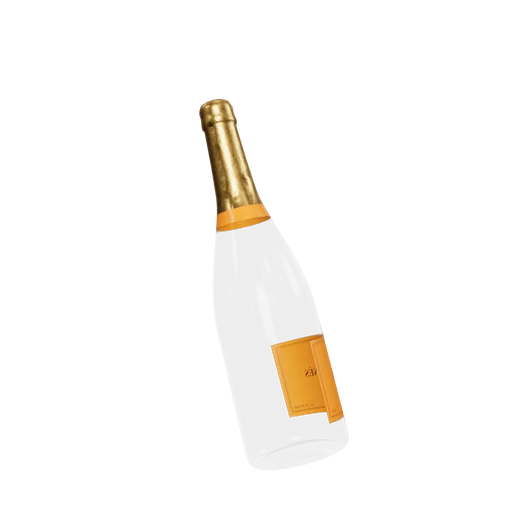
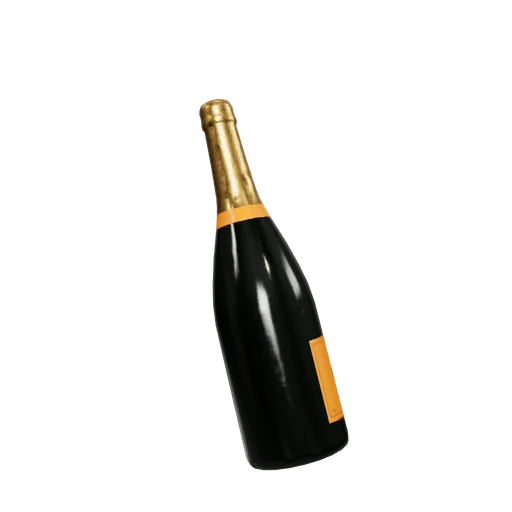
P5 follow-ups: NBSP separators, snow-globe framing, opaque champagne glass, visible particles
- live-card separators (NBSP around the middle dot) in the fixture and templates; parity spec
  now feeds the fixture directly (still 0.000 %)
- snow globe: fit 1.35 / yOffset 0.07 so the 3D hint clears the base (seed + template + preview)
- asset pipeline: validated 'opaqueMaterials' option; champagne-bottle glass is opaque
- generator rule: particle colours >= 1.25:1 on both preset backgrounds (rose exempt: live card)
- billets without title lines still get a (visually hidden) h1
- docs: FitText, hint/label design decisions, CLAUDE.md §11 wording

Changed region(s): [[0.4062, 0.4062, 0.6875, 0.9375]]

diff --git a/billet-studio-frontend/src/app/core/theme/billet-theme-presets.generated.ts b/billet-studio-frontend/src/app/core/theme/billet-theme-presets.generated.ts
@@ -106,7 +106,7 @@ export const BILLET_THEME_PRESETS: Readonly<Record<ThemeId, BilletThemePreset>> 
       ui: { fontId: 'dm-sans', weight: 400, italic: false, size: 1 },
       emphasis: 'accent',
     },
-    particleColors: ['#a3b89a', '#c3d4b5', '#7a9a7e', '#dbe6cf', '#5e8566', '#b8cfa8'],
+    particleColors: ['#a3b89a', '#c3d4b5', '#7a9a7e', '#cddcbf', '#5e8566', '#b8cfa8'],
   },
   midnight: {
     palette: {
@@ -138,7 +138,7 @@ export const BILLET_THEME_PRESETS: Readonly<Record<ThemeId, BilletThemePreset>> 
       ui: { fontId: 'raleway', weight: 500, italic: false, size: 1 },
       emphasis: 'accent',
     },
-    particleColors: ['#e3c170', '#f3dc9b', '#c7a24e', '#d7dcef', '#aab2d6', '#f5f6fc'],
+    particleColors: ['#e3c170', '#ebd493', '#c7a24e', '#cdd3ea', '#aab2d6', '#c2d5f0'],
   },
   paper: {
     palette: {
@@ -170,7 +170,7 @@ export const BILLET_THEME_PRESETS: Readonly<Record<ThemeId, BilletThemePreset>> 
       ui: { fontId: 'work-sans', weight: 400, italic: false, size: 1 },
       emphasis: 'inkSoft',
     },
-    particleColors: ['#d8cbb3', '#c2b192', '#8a3a2a', '#3a342c', '#e9dfcb', '#a8977a'],
+    particleColors: ['#d8cbb3', '#c2b192', '#8a3a2a', '#5a5248', '#d4b8a0', '#a8977a'],
   },
   lavender: {
     palette: {
@@ -202,7 +202,7 @@ export const BILLET_THEME_PRESETS: Readonly<Record<ThemeId, BilletThemePreset>> 
       ui: { fontId: 'quicksand', weight: 500, italic: false, size: 1 },
       emphasis: 'accent',
     },
-    particleColors: ['#c9b6f2', '#b39ae8', '#e2d7fa', '#9a7ddb', '#f0eafc', '#d4c4f5'],
+    particleColors: ['#c9b6f2', '#b39ae8', '#e2d7fa', '#9a7ddb', '#e0c9f0', '#d4c4f5'],
   },
   ocean: {
     palette: {
@@ -234,7 +234,7 @@ export const BILLET_THEME_PRESETS: Readonly<Record<ThemeId, BilletThemePreset>> 
       ui: { fontId: 'montserrat', weight: 500, italic: false, size: 1 },
       emphasis: 'accent',
     },
-    particleColors: ['#5cc4e6', '#9adcee', '#2f9fc4', '#7ad9c9', '#d2f1f7', '#11709a'],
+    particleColors: ['#5cc4e6', '#9adcee', '#2f9fc4', '#7ad9c9', '#b3dfe6', '#11709a'],
   },
   terracotta: {
     palette: {
@@ -330,7 +330,7 @@ export const BILLET_THEME_PRESETS: Readonly<Record<ThemeId, BilletThemePreset>> 
       ui: { fontId: 'nunito', weight: 800, italic: false, size: 1 },
       emphasis: 'accent',
     },
-    particleColors: ['#5fd6b3', '#9be7cf', '#2fb38f', '#c8f4e5', '#7fdcc4', '#0f7d63'],
+    particleColors: ['#5fd6b3', '#9be7cf', '#2fb38f', '#abe4cf', '#7fdcc4', '#0f7d63'],
   },
   peach: {
     palette: {
@@ -362,7 +362,7 @@ export const BILLET_THEME_PRESETS: Readonly<Record<ThemeId, BilletThemePreset>> 
       ui: { fontId: 'outfit', weight: 600, italic: false, size: 1 },
       emphasis: 'accent',
     },
-    particleColors: ['#ffb38a', '#ffc9a8', '#ff9a6b', '#f7d9c4', '#ffd6a5', '#e8764a'],
+    particleColors: ['#ffb38a', '#ffc9a8', '#ff9a6b', '#f5d0b8', '#ffd6a5', '#e8764a'],
   },
   aurora: {
     palette: {
@@ -426,7 +426,7 @@ export const BILLET_THEME_PRESETS: Readonly<Record<ThemeId, BilletThemePreset>> 
       ui: { fontId: 'oswald', weight: 400, italic: false, size: 1 },
       emphasis: 'accent',
     },
-    particleColors: ['#6f4a33', '#a57a55', '#d4a57a', '#c89b6d', '#3b2518', '#e8cfb2'],
+    particleColors: ['#6f4a33', '#a57a55', '#d4a57a', '#c89b6d', '#634231', '#e8cfb2'],
   },
   sakura: {
     palette: {
@@ -458,7 +458,7 @@ export const BILLET_THEME_PRESETS: Readonly<Record<ThemeId, BilletThemePreset>> 
       ui: { fontId: 'poppins', weight: 400, italic: false, size: 0.95 },
       emphasis: 'accent',
     },
-    particleColors: ['#f7c1d3', '#f4a7c0', '#fcdce7', '#e98aa9', '#fff0f5', '#d8668c'],
+    particleColors: ['#f7c1d3', '#f4a7c0', '#f9d0de', '#e98aa9', '#eec6de', '#d8668c'],
   },
   forest: {
     palette: {
@@ -522,7 +522,7 @@ export const BILLET_THEME_PRESETS: Readonly<Record<ThemeId, BilletThemePreset>> 
       ui: { fontId: 'raleway', weight: 600, italic: false, size: 1 },
       emphasis: 'inkSoft',
     },
-    particleColors: ['#d8b98a', '#e2b56d', '#c7a77a', '#b98a4a', '#f0dcb8', '#97661f'],
+    particleColors: ['#d8b98a', '#e2b56d', '#c7a77a', '#b98a4a', '#e8d0a6', '#97661f'],
   },
   neon: {
     palette: {
@@ -554,7 +554,7 @@ export const BILLET_THEME_PRESETS: Readonly<Record<ThemeId, BilletThemePreset>> 
       ui: { fontId: 'space-grotesk', weight: 600, italic: false, size: 1 },
       emphasis: 'accent',
     },
-    particleColors: ['#ff4fd8', '#22e3ff', '#b36bff', '#ffe066', '#ff8ae6', '#7af3ff'],
+    particleColors: ['#ff4fd8', '#22e3ff', '#b36bff', '#ffd84d', '#ff8ae6', '#5eeeff'],
   },
 };
 

diff --git a/billet-studio-frontend/e2e/parity.spec.ts b/billet-studio-frontend/e2e/parity.spec.ts
@@ -26,19 +26,6 @@ const PIXEL_THRESHOLD = 0.1;
 const MAX_MISMATCH_RATIO = 0.01;
 const MASK_COLOR = '#ff00ff';
 
-/**
- * The live card sets its '·' separators as ' &nbsp;·&nbsp; ' (a space and a no-break space on each
- * side), the fixture as ' · '. The test types them like the card, so it measures the renderer, not
- * the wording: with the fixture's text the label and the hint are 8.8 px narrower.
- */
-const NBSP = String.fromCharCode(0xa0);
-const liveSeparator = (text: string) => text.replace(' · ', ` ${NBSP}·${NBSP} `);
-const LIVE_CARD_DOCUMENT = {
-  ...PARITY_DOCUMENT,
-  hero: { ...PARITY_DOCUMENT.hero, label: liveSeparator(PARITY_DOCUMENT.hero['label']) },
-  scene: { ...PARITY_DOCUMENT.scene, hint: liveSeparator(PARITY_DOCUMENT.scene.hint) },
-};
-
 /** The live card's reveal is finished at once; the petals and the credit line are not the card. */
 const ORIGINAL_CSS = `
   .hero-label, .hero-title, .hero-sub, .botanical, .divider, .section, .fun-card, .soundbar-note,
@@ -292,7 +279,7 @@ for (const viewport of VIEWPORTS) {
         await original.goto(ORIGINAL_URL, { waitUntil: 'networkidle' });
         expect(await settle(original, ORIGINAL_CSS)).toEqual(expect.arrayContaining(CARD_FACES));
 
-        await mockBilletApi(page, { 'parity-token': publicBillet(LIVE_CARD_DOCUMENT) });
+        await mockBilletApi(page, { 'parity-token': publicBillet(PARITY_DOCUMENT) });
         await page.goto(OURS_URL);
         await expect(page.locator('app-billet-view .signature-sub')).toBeVisible();
         await page.waitForLoadState('networkidle');

diff --git a/billet-studio-frontend/src/app/billet/templates/valentinstag.ts b/billet-studio-frontend/src/app/billet/templates/valentinstag.ts
@@ -1,4 +1,4 @@
-import { defineTemplate } from './template';
+import { defineTemplate, SEPARATOR } from './template';
 
 export const VALENTINSTAG = defineTemplate({
   nameKey: 'TEMPLATES.VALENTINSTAG',
@@ -12,7 +12,7 @@ export const VALENTINSTAG = defineTemplate({
       title: 'Valentinstag',
       pageTitle: 'Für dich · Valentinstag',
       hero: {
-        label: '14. Februar · Valentinstag',
+        label: `14. Februar${SEPARATOR}Valentinstag`,
         titleLine1: 'Für dich,',
         titleLine2: 'mein Herz',
         sub: 'weil jeder Tag mit dir zählt',
@@ -44,7 +44,7 @@ export const VALENTINSTAG = defineTemplate({
       title: "Valentine's Day",
       pageTitle: "For you · Valentine's Day",
       hero: {
-        label: "February 14 · Valentine's Day",
+        label: `February 14${SEPARATOR}Valentine's Day`,
         titleLine1: 'For you,',
         titleLine2: 'my love',
         sub: 'because every day with you counts',

diff --git a/billet-studio-frontend/src/app/billet/templates/template.ts b/billet-studio-frontend/src/app/billet/templates/template.ts
@@ -62,8 +62,8 @@ const SEED_DEFAULTS = {
     autoRotateSpeed: 0.45,
   },
   'snow-globe': {
-    fitSize: 1.45,
-    yOffset: 0,
+    fitSize: 1.35,
+    yOffset: 0.07,
     exposure: 0.6,
     cameraDistance: 2.8,
     cameraHeight: 0.1,
@@ -98,9 +98,12 @@ const SCENE_ARIA_LABEL: Record<SceneModelSlug, Record<BilletLang, string>> = {
   },
 };
 
+/** The live card's separator (' &nbsp;·&nbsp; '): a space and a no-break space on each side. */
+export const SEPARATOR = ' \u00a0·\u00a0 ';
+
 const SCENE_HINT: Record<BilletLang, string> = {
-  de: 'wischen zum drehen · pinch zum zoomen',
-  en: 'swipe to rotate · pinch to zoom',
+  de: `wischen zum drehen${SEPARATOR}pinch zum zoomen`,
+  en: `swipe to rotate${SEPARATOR}pinch to zoom`,
 };
 
 /** The original card's scene (height 23.75rem, auto-rotating) around one of the seeded models. */

diff --git a/billet-studio-frontend/src/app/features/dev/billet-preview/parity-document.generated.ts b/billet-studio-frontend/src/app/features/dev/billet-preview/parity-document.generated.ts
@@ -78,7 +78,7 @@ export const PARITY_DOCUMENT: unknown = {
     pageBottom: 15,
   },
   hero: {
-    label: '10. Mai 2026 · Muttertag',
+    label: '10. Mai 2026  ·  Muttertag',
     titleLine1: 'Für',
     titleLine2: 'Mama',
     sub: 'von Andreas',
@@ -94,7 +94,7 @@ export const PARITY_DOCUMENT: unknown = {
     cameraHeight: 0.1,
     autoRotate: true,
     autoRotateSpeed: 0.45,
-    hint: 'wischen zum drehen · pinch zum zoomen',
+    hint: 'wischen zum drehen  ·  pinch zum zoomen',
     ariaLabel: '3D Blumenstrauß, interaktiv drehbar',
   },
   divider: {

diff --git a/billet-studio-frontend/src/app/billet/view/billet-view.scss b/billet-studio-frontend/src/app/billet/view/billet-view.scss
@@ -109,6 +109,19 @@ p {
     color: var(--billet-ink-soft);
 }
 
+// The site's .ui-visually-hidden, which the billet may not use: the h1 without title lines.
+.sr-only {
+    position: absolute;
+    inline-size: 1px;
+    block-size: 1px;
+    margin: -1px;
+    padding: 0;
+    overflow: hidden;
+    clip-path: inset(50%);
+    white-space: nowrap;
+    border: 0;
+}
+
 // ===== Scene =====
 
 .scene {

diff --git a/billet-studio-frontend/src/app/billet/view/billet-view.html b/billet-studio-frontend/src/app/billet/view/billet-view.html
@@ -31,6 +31,9 @@
           >{{ hero.titleLine2 }}</span
         >
       </h1>
+    } @else {
+      <!-- Every billet page has an h1: without title lines it is read, not seen. -->
+      <h1 class="sr-only">{{ document().pageTitle || document().title }}</h1>
     }
     @if (hero.sub) {
       <p

diff --git a/billet-studio-frontend/e2e/support/billet-api.ts b/billet-studio-frontend/e2e/support/billet-api.ts
@@ -4,7 +4,6 @@ import { join } from 'node:path';
 
 interface ParityFixture {
   readonly hero: Readonly<Record<string, string>>;
-  readonly scene: Readonly<Record<string, unknown>> & { readonly hint: string };
   readonly [key: string]: unknown;
 }
 

diff --git a/CLAUDE.md b/CLAUDE.md
@@ -251,7 +251,7 @@ contract is `<component>-schema.ts` (section 7), and a form's writable state sig
 `model`.
 
 A file that only holds shared types or pure helpers takes a plain descriptive name after its
-subject (`billet-document.ts`, `spacing-scale.ts`, `palette.ts`), co-located with its one owner or in
+subject (`billet-document.ts`, `scene-math.ts`, `palette.ts`), co-located with its one owner or in
 `core/utils/` when several features share it.
 
 ### 3D models are "assets" in the frontend
@@ -491,7 +491,7 @@ Order of preference:
 ## 11. Billet renderer rules
 
 The renderer lives in `src/app/billet/` (`billet-document.ts`, `migrate-document.ts`,
-`inline-markup.ts`, `palette.ts`, `spacing-scale.ts`, `view/`, `particles/`, `scene/`).
+`text/inline-markup.ts`, `palette.ts`, `view/`, `particles/`, `scene/`, `templates/`).
 
 ### One view, WYSIWYG
 - **One `BilletView`** is used by the editor preview AND the public page `/b/:token`. Never fork
@@ -500,15 +500,21 @@ The renderer lives in `src/app/billet/` (`billet-document.ts`, `migrate-document
   so the phone-width preview in the editor is exactly what a phone shows.
 - The viewport meta has no `maximum-scale` / `user-scalable=no`.
 - The public page waits for the billet's fonts before its reveal; it is `noindex`.
-- The Muttertag template must stay at visual parity with `muttertag_threejs/index.html` (Playwright
-  parity test, ≤ 1 % pixel difference at 390×844 and 1280×800, light and dark). Any renderer change
-  re-runs it.
+- Every billet page has one `h1`: the hero title, or - with both title lines empty - a visually
+  hidden one reading `pageTitle || title` (a local `.sr-only`; the billet never uses site classes).
+- The Muttertag reference document (`docs/fixtures/muttertag.billet.json`) must stay at visual parity
+  with the live card (snapshot `e2e/fixtures/muttertag-original`; Playwright parity test, ≤ 1 % pixel
+  difference at 390×844 and 1280×800, light and dark). Any renderer change re-runs it.
+- Two deliberate deviations from the live card, both user decisions: the 3D hint is drawn in full
+  `inkSoft` so it stays readable (the card's 50 % opacity is about 2.3:1); the hero label keeps the
+  card's `accent` on `accentSoft` (3.7:1 in light mode), accepted as decorative text.
 
 ### Text: never `innerHTML`
 - **NEVER** `innerHTML`, `[innerHTML]`, `outerHTML`, `insertAdjacentHTML`, `document.write`,
   `DomSanitizer.bypassSecurityTrust*` - anywhere in the app, not only in `billet/`.
-- User text goes through `inline-markup.ts`: `*italic*`, `**bold**` and line breaks are parsed into
-  nodes, and the template renders the nodes with `@for`. Anything else stays literal text.
+- User text goes through `src/app/billet/text/inline-markup.ts`: `*italic*`, `**bold**` and line
+  breaks are parsed into nodes, and the template renders the nodes with `@for`. Anything else stays
+  literal text.
 
 ### The document
 - One JSON shape (`BilletDocument`) in localStorage, in the API and in the database.
@@ -517,10 +523,12 @@ The renderer lives in `src/app/billet/` (`billet-document.ts`, `migrate-document
   (`UNSUPPORTED_SCHEMA_VERSION`).
 - Changing the shape = bump `schemaVersion` + migration step + migration test + backend records /
   Jakarta validation / `BilletDocumentCodec` - in the same commit.
-- **Blocks share one shape** (`id, type, text, icon, ariaLabel, dividerStyle, spaceBefore`; `type`:
+- **Blocks share one shape** (`id, type, text, icon, ariaLabel, dividerStyle, spaceAdjust`; `type`:
   `paragraph | heading | card | note | divider`). Signal Forms arrays need one element shape; fields a
   type does not use are `hidden()` in the schema. Never introduce per-type block shapes. Max 30 blocks.
-- Spacing values are steps on the fixed scale in `spacing-scale.ts`; the sliders move by step.
+- Spacing values are steps on the fixed scale `BILLET_SPACE_SCALE` in
+  `src/app/billet/billet-document.ts`; the sliders move by step. A block's `spaceAdjust` is added to
+  `spacing.blockGap` and clamped to the scale.
 - Colors are hex values; dark palettes derive via OKLCH in `palette.ts`, which also reports contrast.
 
 ### Particles
@@ -998,7 +1006,9 @@ scope too. localStorage: `billet-studio.color-mode` only (absent = follow the sy
 - Billet presets: every editor theme in `themes.json` carries a `billet` block (`light`/`dark`
   BilletPalette, six typography roles + `emphasis`, `particleColors`). The generator validates fonts
   against the catalog and five billet contrast rules (ink/background ≥ 4.5, ink/surface ≥ 4.5,
-  inkSoft/background ≥ 4.5, accent/accentSoft ≥ 3, accent/background ≥ 3) and writes
+  inkSoft/background ≥ 4.5, accent/accentSoft ≥ 3, accent/background ≥ 3), requires every particle
+  colour to reach 1.25:1 on the light AND on the dark background (rose exempt: it equals the live
+  card) and writes
   `core/theme/billet-theme-presets.generated.ts`: `BilletThemePreset`, `BILLET_THEME_PRESETS`,
   `billetPresetFor(id)` (unknown → default). `rose` must equal `docs/fixtures/muttertag.billet.json`
   (the live card; `theme-contrast.spec.ts` pins it). `titleAccent.size` is relative to the final

diff --git a/docs/billet-document.md b/docs/billet-document.md
@@ -147,6 +147,15 @@ title `clamp(4.5rem, 22cqi, 5.5rem)`, titleAccent `1em` of the title, heading
 `clamp(2.125rem, 10cqi, 2.75rem)`, ui label `0.625rem`, hero sub `0.8125rem`, hint `0.625rem`,
 signature sub `0.6875rem`.
 
+- Hero title lines (title, titleAccent) shrink to fit on one line (`FitText`, down to 0.6× of their
+  size); a longer line then wraps between words, and one word wider than the page shrinks further.
+  A title line never breaks inside a word.
+- The 3D hint is drawn in full `inkSoft` (the original card: 50 % opacity, about 2.3:1), so it stays
+  readable - a user decision. The hero label keeps the original's `accent` on `accentSoft` (the live
+  card in light mode: 3.7:1) - also a user decision, accepted as decorative text.
+- Every billet page has an `h1`: with both title lines empty it is visually hidden and reads
+  `pageTitle`, else `title`.
+
 Density mapping: `count = round(density × 0.56)`, `inAirMax = round(count × 0.43)`,
 `totalCap = count × 3` (50 → 28 / 12 / 84, the original).
 
@@ -156,7 +165,8 @@ Parity fixture: the LIVE card https://muttertag.andreas-web.dev (snapshot in
 `billet-studio-frontend/e2e/fixtures/muttertag-original/index.html`; it differs from the local
 `muttertag_threejs/index.html` only in `--rose-pale`, live `#fdf5f2` is canonical). The same document lives in
 [`fixtures/muttertag.billet.json`](fixtures/muttertag.billet.json), which backend tests and the
-Playwright parity test read directly — change both together.
+Playwright parity test read directly — change both together. Its `·` separators are typed like
+the card's `&nbsp;·&nbsp;`: a space and a no-break space (U+00A0, `\u00a0` below) on each side.
 
 ```json
 {
@@ -181,12 +191,12 @@ Playwright parity test read directly — change both together.
     "emphasis": "inkSoft"
   },
   "spacing": { "gutter": 8, "heroTop": 14, "heroBottom": 13, "dividerGap": 9, "blockGap": 10, "signatureGap": 11, "pageBottom": 15 },
-  "hero": { "label": "10. Mai 2026 · Muttertag", "titleLine1": "Für", "titleLine2": "Mama", "sub": "von Andreas" },
+  "hero": { "label": "10. Mai 2026 \u00a0·\u00a0 Muttertag", "titleLine1": "Für", "titleLine2": "Mama", "sub": "von Andreas" },
   "scene": {
     "enabled": true, "modelSlug": "flower-bouquet", "height": 23.75,
     "fitSize": 1.6, "yOffset": -0.08, "exposure": 0.6, "cameraDistance": 2.8, "cameraHeight": 0.1,
     "autoRotate": true, "autoRotateSpeed": 0.45,
-    "hint": "wischen zum drehen · pinch zum zoomen", "ariaLabel": "3D Blumenstrauß, interaktiv drehbar"
+    "hint": "wischen zum drehen \u00a0·\u00a0 pinch zum zoomen", "ariaLabel": "3D Blumenstrauß, interaktiv drehbar"
   },
   "divider": { "style": "diamond" },
   "blocks": [

diff --git a/tools/asset-pipeline/README.md b/tools/asset-pipeline/README.md
@@ -117,7 +117,11 @@ als GLB, Manifest, `preview.html` und Render-Skript sind.
    - Optional: `sizeLimitMB`, `previewRotationY` (Drehung nur fürs Vorschaubild, Standard −0,35 rad),
      `simplify` (`{ "ratio": 0.5, "error": 0.001 }`), `excludeMaterials` (Primitive mit diesen
      Materialnamen werden entfernt, z. B. Deko-Schneeflocken, die das Auto-Fit sprengen),
-     `losslessNormals` (Normal-Maps verlustfrei, wenn `models:compare` sichtbaren Verlust zeigt).
+     `losslessNormals` (Normal-Maps verlustfrei, wenn `models:compare` sichtbaren Verlust zeigt),
+     `opaqueMaterials` (diese Materialien werden deckend: `alphaMode` OPAQUE, Alpha 1 – für ein
+     BLEND-Material, das nicht durchsichtig sein soll; über der transparenten Canvas scheint sonst die
+     Seite durch und bei doppelseitigen Materialien die Rückseite, z. B. ein gespiegeltes Etikett.
+     Heute `champagne-bottle`, Material `Glass`).
 5. **Pipeline laufen lassen**: `npm run models` (optimieren → Vorschaubild → `sql/seed_models.sql`).
    Tabelle prüfen, Vorschaubild in `public/models/previews/` ansehen.
 6. **Datenbank**: `sql/seed_models.sql` spielst **du** ein (phpMyAdmin oder
